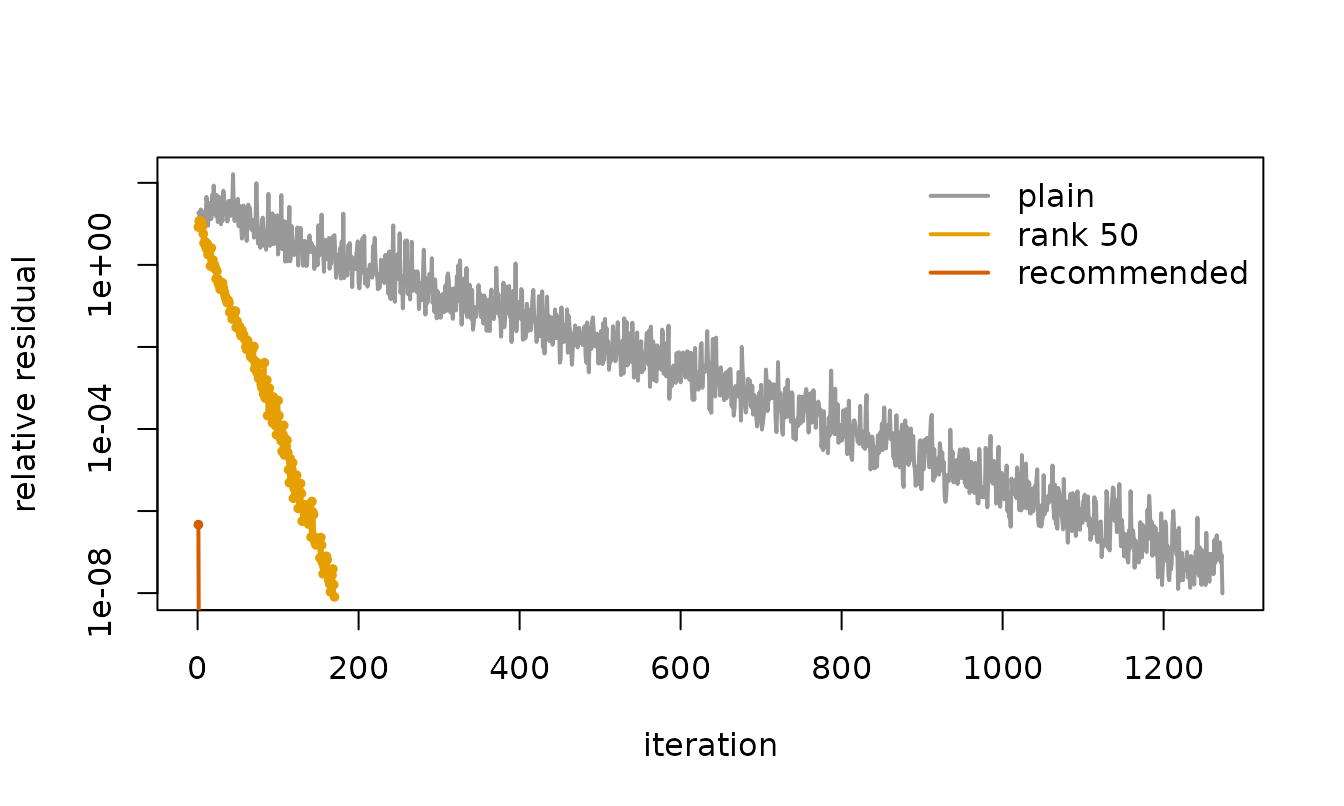
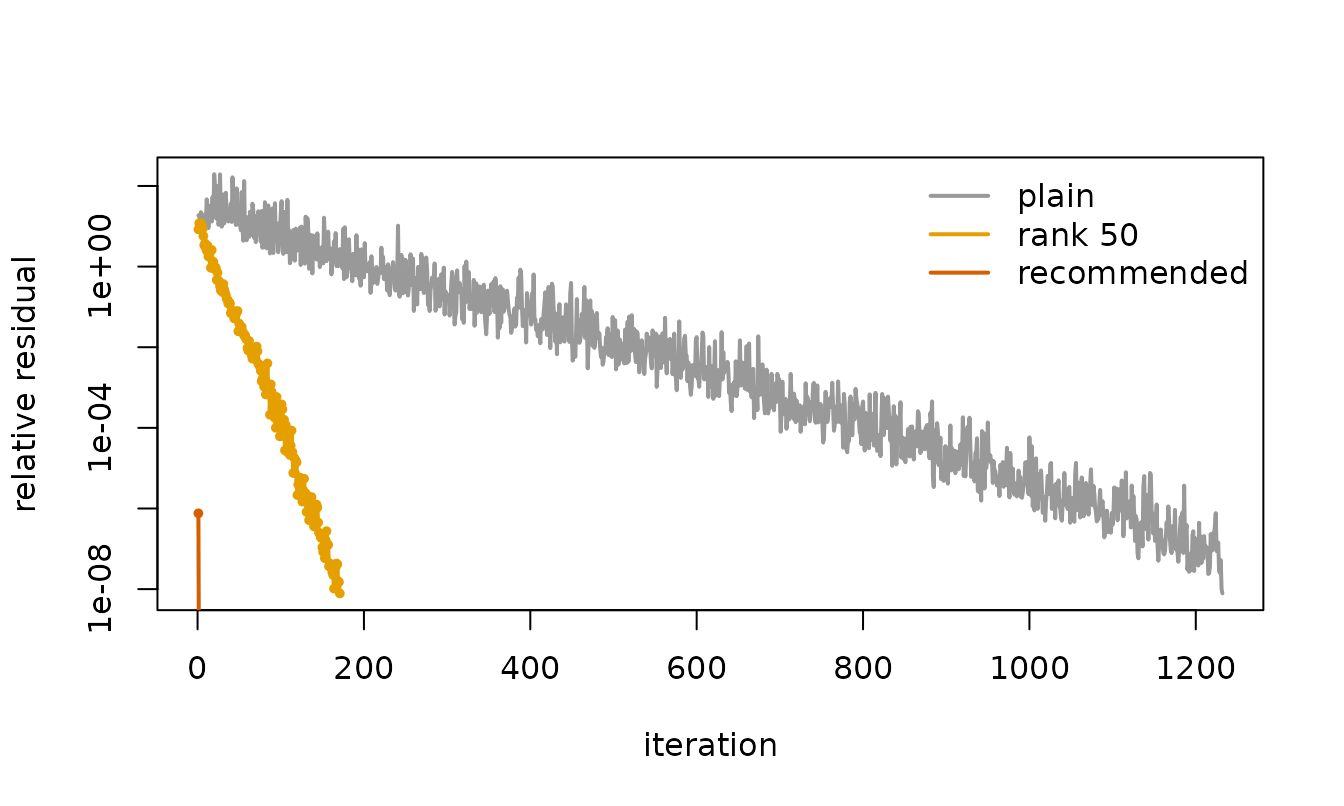
Deploying to gh-pages from @ mqfarooqi1/matsketch@d0a078280552a42f0e27195be595cac0e9b03b4e 🚀

diff --git a/articles/matsketch.html b/articles/matsketch.html
@@ -332,7 +332,7 @@ all:</p>
 <span><span class="op">)</span></span>
 <span><span class="fu"><a href="https://rdrr.io/r/base/lapply.html" class="external-link">sapply</a></span><span class="op">(</span><span class="va">runs</span>, <span class="va">`[[`</span>, <span class="st">"iterations"</span><span class="op">)</span></span>
 <span><span class="co">#&gt;       plain     rank 50 recommended </span></span>
-<span><span class="co">#&gt;        1273         170           2</span></span></code></pre></div>
+<span><span class="co">#&gt;        1232         171           2</span></span></code></pre></div>
 <div class="sourceCode" id="cb13"><pre class="downlit sourceCode r">
 <code class="sourceCode R"><span><span class="va">cols</span> <span class="op">&lt;-</span> <span class="fu"><a href="https://rdrr.io/r/base/c.html" class="external-link">c</a></span><span class="op">(</span><span class="st">"#999999"</span>, <span class="st">"#E69F00"</span>, <span class="st">"#D55E00"</span><span class="op">)</span></span>
 <span><span class="fu"><a href="https://rdrr.io/r/graphics/plot.default.html" class="external-link">plot</a></span><span class="op">(</span><span class="va">runs</span><span class="op">$</span><span class="va">plain</span><span class="op">$</span><span class="va">residuals</span>, log <span class="op">=</span> <span class="st">"y"</span>, type <span class="op">=</span> <span class="st">"l"</span>, lwd <span class="op">=</span> <span class="fl">2</span>, col <span class="op">=</span> <span class="va">cols</span><span class="op">[</span><span class="fl">1</span><span class="op">]</span>,</span>
@@ -343,7 +343,7 @@ all:</p>
 <span><span class="op">}</span></span>
 <span><span class="fu"><a href="https://rdrr.io/r/graphics/legend.html" class="external-link">legend</a></span><span class="op">(</span><span class="st">"topright"</span>, <span class="fu"><a href="https://rdrr.io/r/base/names.html" class="external-link">names</a></span><span class="op">(</span><span class="va">runs</span><span class="op">)</span>, col <span class="op">=</span> <span class="va">cols</span>, lwd <span class="op">=</span> <span class="fl">2</span>, bty <span class="op">=</span> <span class="st">"n"</span><span class="op">)</span></span></code></pre></div>
 <p><img src="matsketch_files/figure-html/pcg-plot-1.png" class="r-plt" alt="" width="100%"></p>
-<p>Even a rank of 50 cuts the count from 1273 iterations to 170. At the
+<p>Even a rank of 50 cuts the count from 1232 iterations to 171. At the
 recommended rank the approximation captures nearly all of the matrix
 above the level
 <math display="inline" xmlns="http://www.w3.org/1998/Math/MathML"><semantics><mi>μ</mi><annotation encoding="application/x-tex">\mu</annotation></semantics></math>,

diff --git a/reference/pcg.html b/reference/pcg.html
@@ -130,7 +130,7 @@ Nystrom preconditioning. SIAM Journal on Matrix Analysis and Applications
 <span class="r-in"><span><span class="va">fast</span> <span class="op">&lt;-</span> <span class="fu">pcg</span><span class="op">(</span><span class="va">K</span>, <span class="va">b</span>, mu <span class="op">=</span> <span class="fl">1e-3</span>, precond <span class="op">=</span> <span class="va">pre</span><span class="op">)</span></span></span>
 <span class="r-in"><span><span class="fu"><a href="https://rdrr.io/r/base/c.html" class="external-link">c</a></span><span class="op">(</span>plain <span class="op">=</span> <span class="va">plain</span><span class="op">$</span><span class="va">iterations</span>, preconditioned <span class="op">=</span> <span class="va">fast</span><span class="op">$</span><span class="va">iterations</span><span class="op">)</span></span></span>
 <span class="r-out co"><span class="r-pr">#&gt;</span>          plain preconditioned </span>
-<span class="r-out co"><span class="r-pr">#&gt;</span>            143              3 </span>
+<span class="r-out co"><span class="r-pr">#&gt;</span>            144              3 </span>
 </code></pre></div>
     </div>
   </main><aside class="col-md-3"><nav id="toc" aria-label="Table of contents"><h2>On this page</h2>

diff --git a/articles/matsketch.md b/articles/matsketch.md
@@ -251,7 +251,7 @@ runs <- list(
 )
 sapply(runs, `[[`, "iterations")
 #>       plain     rank 50 recommended 
-#>        1273         170           2
+#>        1232         171           2
 ```
 
 ``` r
@@ -268,7 +268,7 @@ legend("topright", names(runs), col = cols, lwd = 2, bty = "n")
 
 ![](matsketch_files/figure-html/pcg-plot-1.png)
 
-Even a rank of 50 cuts the count from 1273 iterations to 170. At the
+Even a rank of 50 cuts the count from 1232 iterations to 171. At the
 recommended rank the approximation captures nearly all of the matrix
 above the level $`\mu`$, and the preconditioned system is so well
 conditioned that 2 iterations are enough.

diff --git a/reference/pcg.md b/reference/pcg.md
@@ -87,5 +87,5 @@ pre <- nystrom_precond(rpchol(K, k = 60), mu = 1e-3)
 fast <- pcg(K, b, mu = 1e-3, precond = pre)
 c(plain = plain$iterations, preconditioned = fast$iterations)
 #>          plain preconditioned 
-#>            143              3 
+#>            144              3 
 ```
